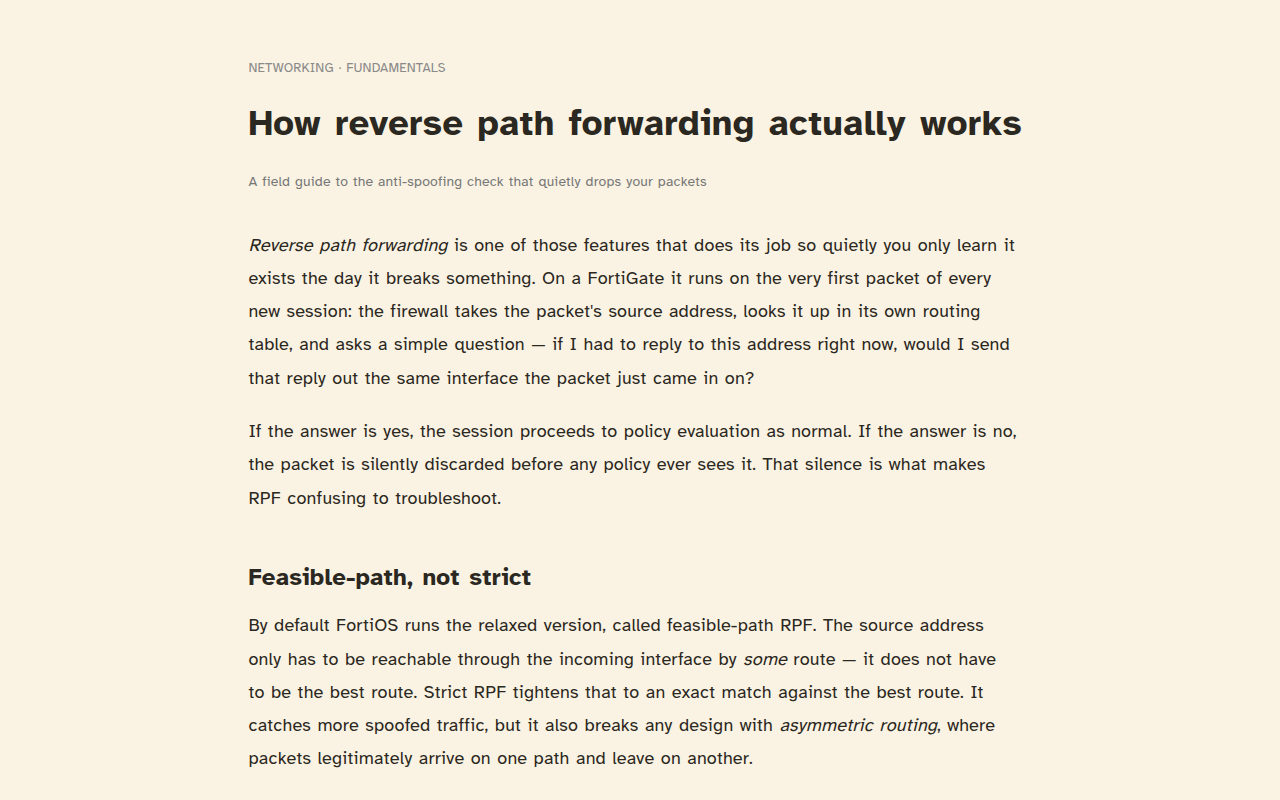
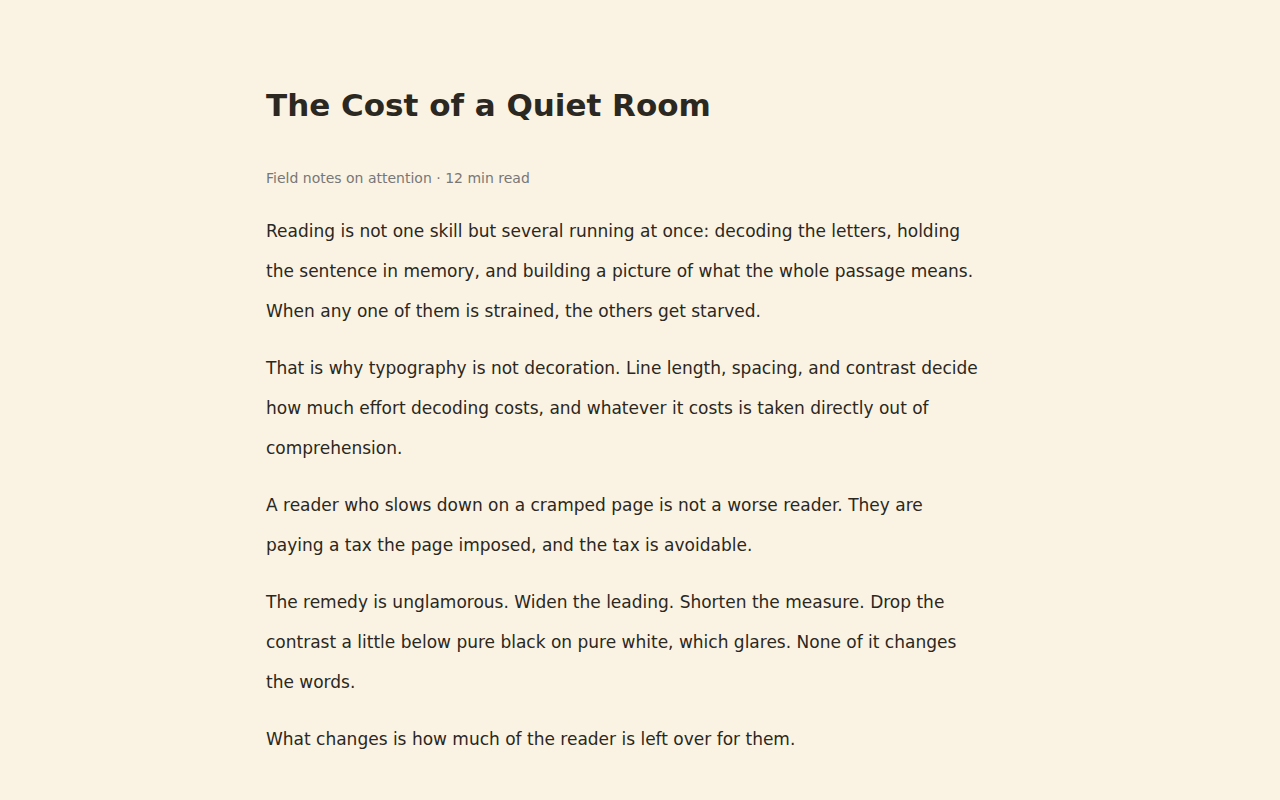
Chrome Web Store prep: refresh listing copy and regenerate screenshots
The listing still described the pre-1.6 feature set and the screenshots
predated the icon overhaul, the export button and the PDF viewer.

- LISTING.md covers PDFs and the share-as-a-page export, and pre-answers the
  eval-in-PDF.js question reviewers will raise (stock pdfjs-dist, vendored
  unmodified, initialised with isEvalSupported:false).
- Five fresh 1280x800 screenshots, generated by driving a real Chromium with
  the extension loaded rather than mocked up, so they show the current UI.
  Dropped the two stale ones.
- PUBLISHING.md leads with a checklist of what's already done vs what needs
  the Google account.

Summary field is 130/132 chars and the manifest description 124/132, both
within the store's limits.

Claude-Session: https://claude.ai/code/session_012AnKXLAEp9EryrVs92TMaK

Changed region(s): [[0.1875, 0.2812, 0.7812, 0.9688], [0.1875, 0.0625, 0.8125, 0.1875], [0.1875, 0.2188, 0.5625, 0.25]]

diff --git a/store/LISTING.md b/store/LISTING.md
@@ -4,7 +4,7 @@
 Reader Comfort
 
 ## Summary (132 chars max)
-Make any web page easier to read: tint, dyslexia-friendly fonts, spacing, a reading ruler, plus a highlighter, drawing, and sticky notes.
+Make any page or PDF easier to read: tint, dyslexia-friendly fonts, spacing, a ruler, plus highlighting, drawing and sticky notes.
 
 ## Category
 Accessibility  (secondary: Productivity / Tools)
@@ -34,6 +34,23 @@ MARK UP WHAT YOU READ
 • Sticky notes — drop a resizable note anywhere and it stays put
 
 Everything you mark is saved locally per page and restored on reload.
+
+PDFs
+Chrome's built-in PDF viewer is closed to extensions, so the tools normally go
+dead on exactly the documents that need them most — worksheets, handouts,
+papers. Open a PDF and Reader Comfort offers to reopen it in its own viewer,
+where everything works. It has two modes:
+• Page view — the PDF as it looks, and you can still select and highlight it
+• Reading view — the text pulled out and reflowed as ordinary paragraphs, so
+  font, size, spacing and line width finally apply. A fixed PDF layout can't
+  do that; this is the difference between a document a struggling reader can
+  read and one they can't.
+
+SHARE WHAT YOU MARKED UP
+One button saves the page's highlights, notes and drawing as a single
+self-contained .html file — your quotes with the text around them, your notes,
+and your ink. Send it to anyone. They don't need this extension, or even a
+network connection: the file loads nothing and reports nothing.
 
 DICTIONARY (optional)
 Turn it on and right-clicking a highlighted word shows its definition. That one
@@ -77,6 +94,11 @@ clipboardWrite
 
 remote code
   None. All code is contained in the package. No external scripts are loaded.
+  The PDF viewer bundles Mozilla's PDF.js (pdfjs-dist 5.6.205, unmodified,
+  in pdf/). Automated scanners flag eval-like constructs inside that vendored
+  bundle; the viewer initialises it with isEvalSupported:false, so those code
+  paths are never taken. The upstream source is at
+  https://www.npmjs.com/package/pdfjs-dist/v/5.6.205 for byte comparison.
 
 data usage disclosures (check on the form)
   ☑ Does NOT sell or transfer user data to third parties
@@ -89,11 +111,16 @@ data usage disclosures (check on the form)
   provide the definition the user asked for, not collected by the developer, not
   sold, not shared beyond that API call.
 
-## Screenshots (store wants 1280x800 or 640x400, PNG)
-store/screenshots/1-reading-comfort.png   — tint + font + narrow column
-store/screenshots/2-highlighter.png       — three colour highlights
-store/screenshots/3-annotate.png          — freehand drawing + on-page toolbar
-store/screenshots/4-sticky-notes.png      — sticky notes (with highlights + ink)
+## Screenshots (store wants 1280x800 or 640x400, PNG) — all 1280x800
+store/screenshots/1-reading-comfort.png   — cream tint, Hyperlegible, airy spacing, narrow column
+store/screenshots/2-highlighter.png       — three colour highlights on an article
+store/screenshots/3-notes-and-ink.png     — sticky note + circled passage + highlights together
+store/screenshots/4-pdf-reading-view.png  — a PDF reflowed into OpenDyslexic (the standout one)
+store/screenshots/5-the-panel.png         — the popup, captioned
+
+Regenerate them with the scripts under the scratch dir used in development:
+they drive a real Chromium with the extension loaded, so they always show the
+current UI rather than a mockup.
 
 ## Small promo tile (440x280) — optional but recommended
 Not generated. Make one from icon128 on a cream background, or skip (only

diff --git a/store/PUBLISHING.md b/store/PUBLISHING.md
@@ -18,6 +18,18 @@ The source `manifest.json` carries keys for both engines; `build.py` splits it
 
 ## Chrome Web Store
 
+**Everything that can be prepared ahead of time is done** — package builds
+clean, listing copy is written and within the field limits, and all five
+screenshots are 1280x800 and current. What's left needs a human with the
+Google account:
+
+- [ ] Register as a developer and pay the one-time **$5 USD** fee
+- [ ] Upload `dist/reader-comfort-chrome-<version>.zip`
+- [ ] Paste the listing fields from `store/LISTING.md`
+- [ ] Upload the five PNGs from `store/screenshots/`
+- [ ] Fill the Privacy tab (text below)
+- [ ] Submit
+
 ### One-time setup
 1. Go to <https://chromewebstore.google.com/devconsole> and sign in with the
    Google account that should own the listing.
@@ -49,6 +61,10 @@ The source `manifest.json` carries keys for both engines; `build.py` splits it
 ### Expect
 - Review may ask why `<all_urls>` is needed — the justification text already
   answers it (the tools must run on any page the user reads).
+- Review may flag **eval inside `pdf/pdf.worker.min.mjs`**. That is stock
+  Mozilla PDF.js, vendored unmodified; the viewer initialises it with
+  `isEvalSupported: false`. `store/LISTING.md` has the wording and the upstream
+  link for byte comparison.
 - If they push back, the fallback is `activeTab` + `optional_host_permissions`,
   but that makes the extension only activate after a click on every site, which
   hurts the reading-tools experience. Try the `<all_urls>` justification first.
